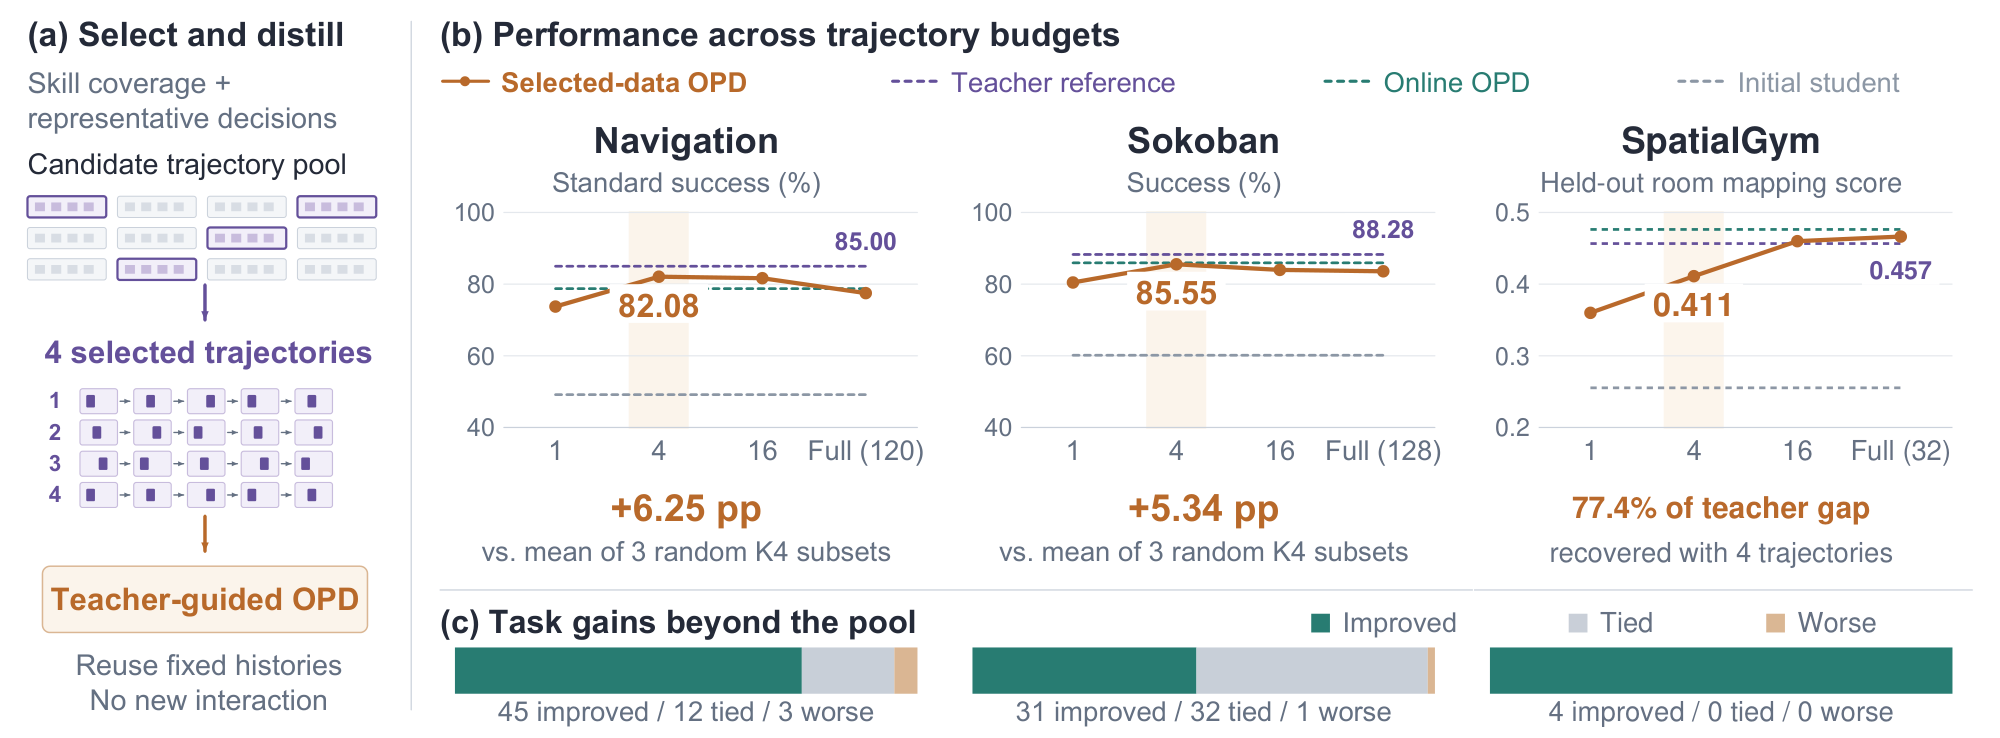
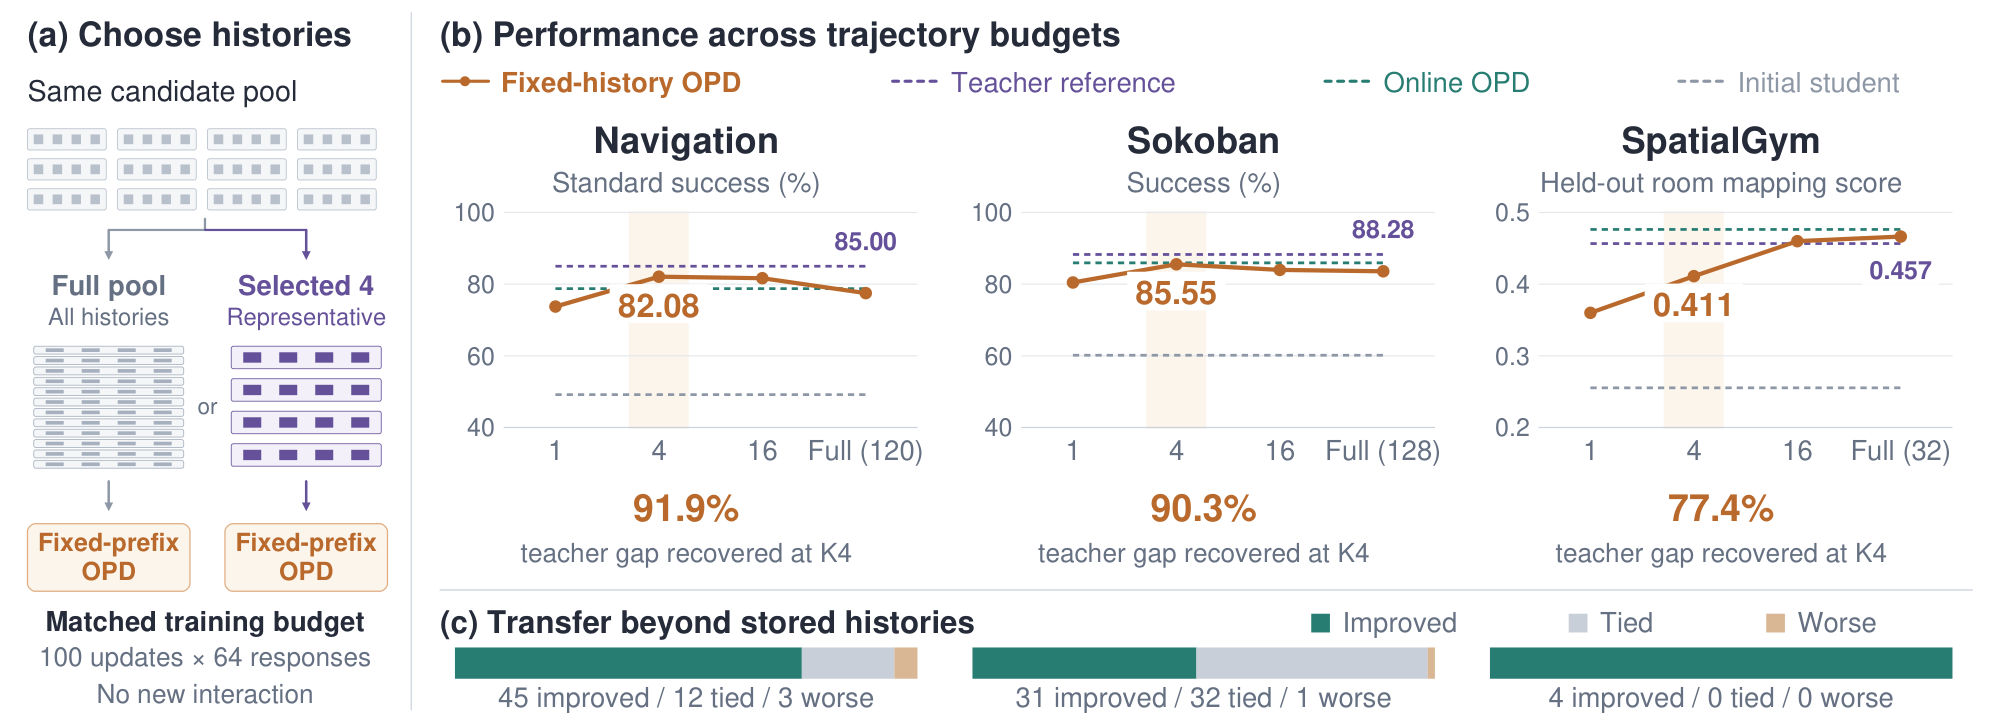
Sync the paper teaser and history-budget explanation

diff --git a/README.md b/README.md
@@ -10,9 +10,9 @@ With **four selected trajectories per environment**, our Qwen3.5-4B student reac
 
 > **Release scope:** the code starts from an already selected set of trajectories. Environment adapters, collection, prefix preparation, offline OPD, matched SFT, online OPD, and evaluation are included. The trajectory-selection front end is not released; its precomputed example annotations and choices are available to inspect.
 
-![Paper Figure 1: representative trajectory selection and transfer in Navigation, Sokoban, and held-out single-room SpatialGym; four trajectories recover 77.4% of the SpatialGym student–teacher gap.](assets/figures/teaser.png)
+![Paper Figure 1: full-pool versus representative-history distillation; four histories recover 91.9%, 90.3%, and 77.4% of the student–teacher gap on Navigation, Sokoban, and held-out SpatialGym rooms.](assets/figures/teaser.png)
 
-**Figure 1 — Four selected trajectories, broad task transfer.** Reproduced from the paper. K4 outperforms the mean of three random subsets on Navigation and Sokoban; the SpatialGym panel shows **held-out single-room** results and **77.4% teacher-gap recovery**. Curves retain the original student, teacher, online OPD, and larger-data comparisons. Axes are zoomed and trajectory budgets are categorical. Task improvements use four-repeat task means. Results use one training seed; K1/K16 and random-subset endpoints are collaborator-reported. Click the image to view it at full resolution.
+**Figure 1 — Few representative histories, broad task transfer.** Reproduced from the paper. Starting from the same candidate pool, full-pool and selected-history OPD use alternative training sets, each with **100 updates × 64 newly sampled responses**. Four histories recover **91.9%**, **90.3%**, and **77.4%** of the initial-student-to-teacher gap on Navigation, Sokoban, and held-out single-room SpatialGym. Curves retain K1/K4/K16/full-pool results and the teacher, online OPD, and initial-student references; SpatialGym improves further with more histories. Axes are zoomed and budgets are categorical. Task improvements use four-repeat task means. Results use one training seed; K1/K16 endpoints are collaborator-reported. Click the image to view it at full resolution.
 
 ## Results
 
